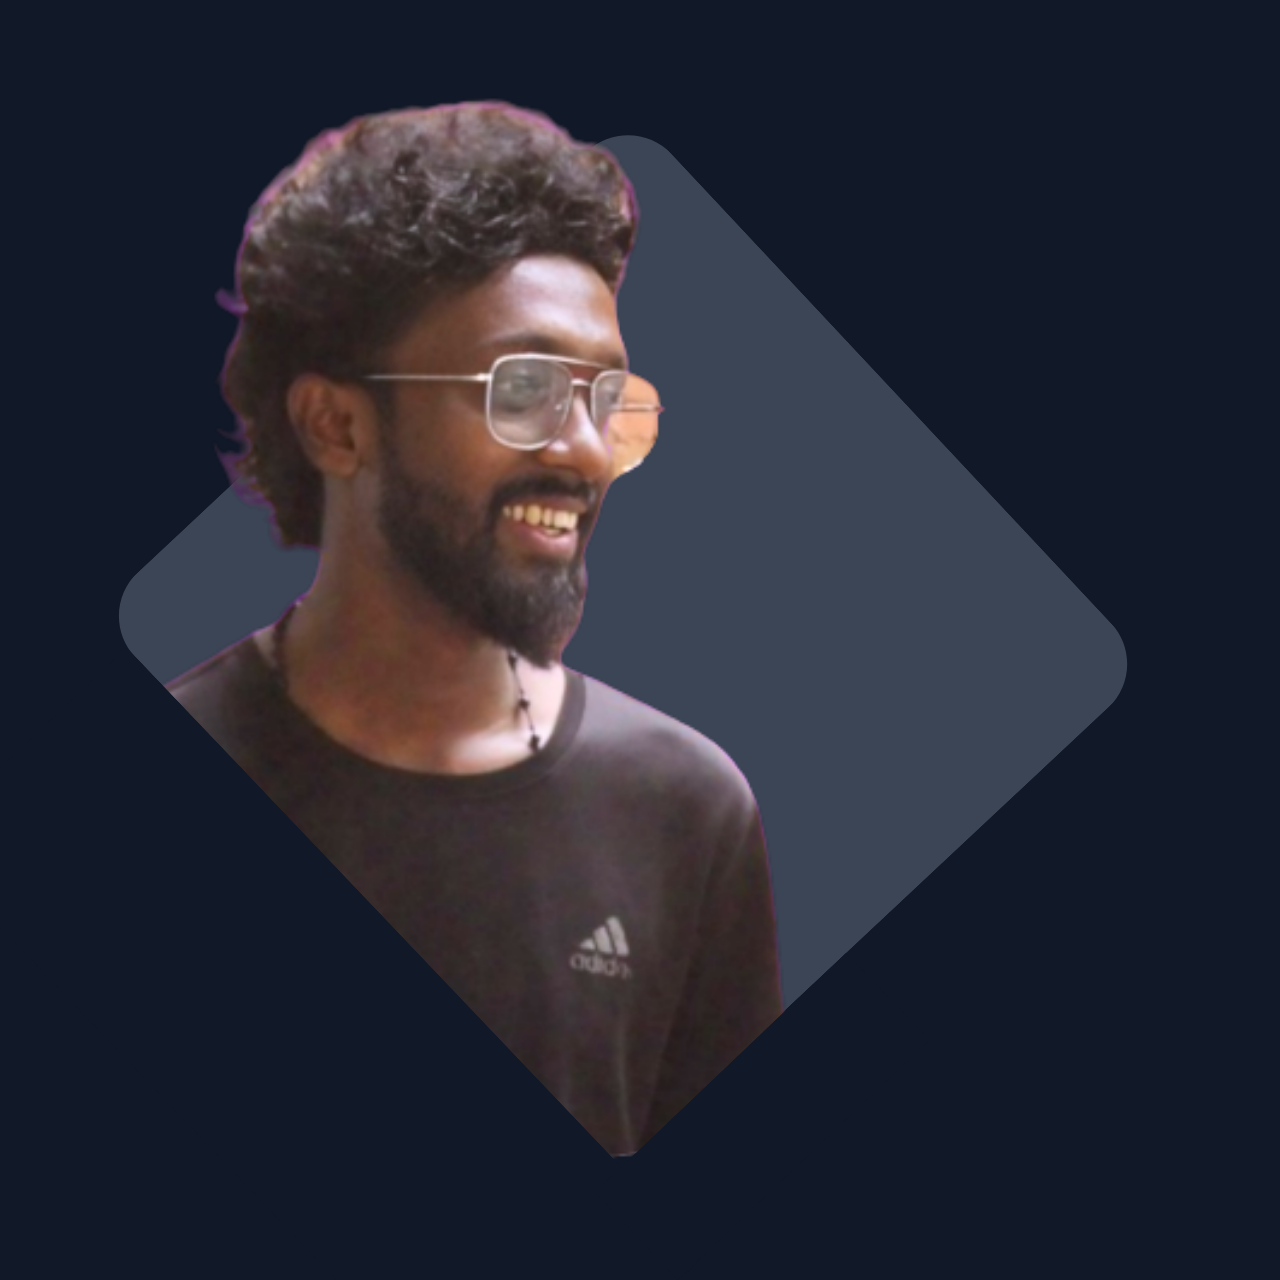
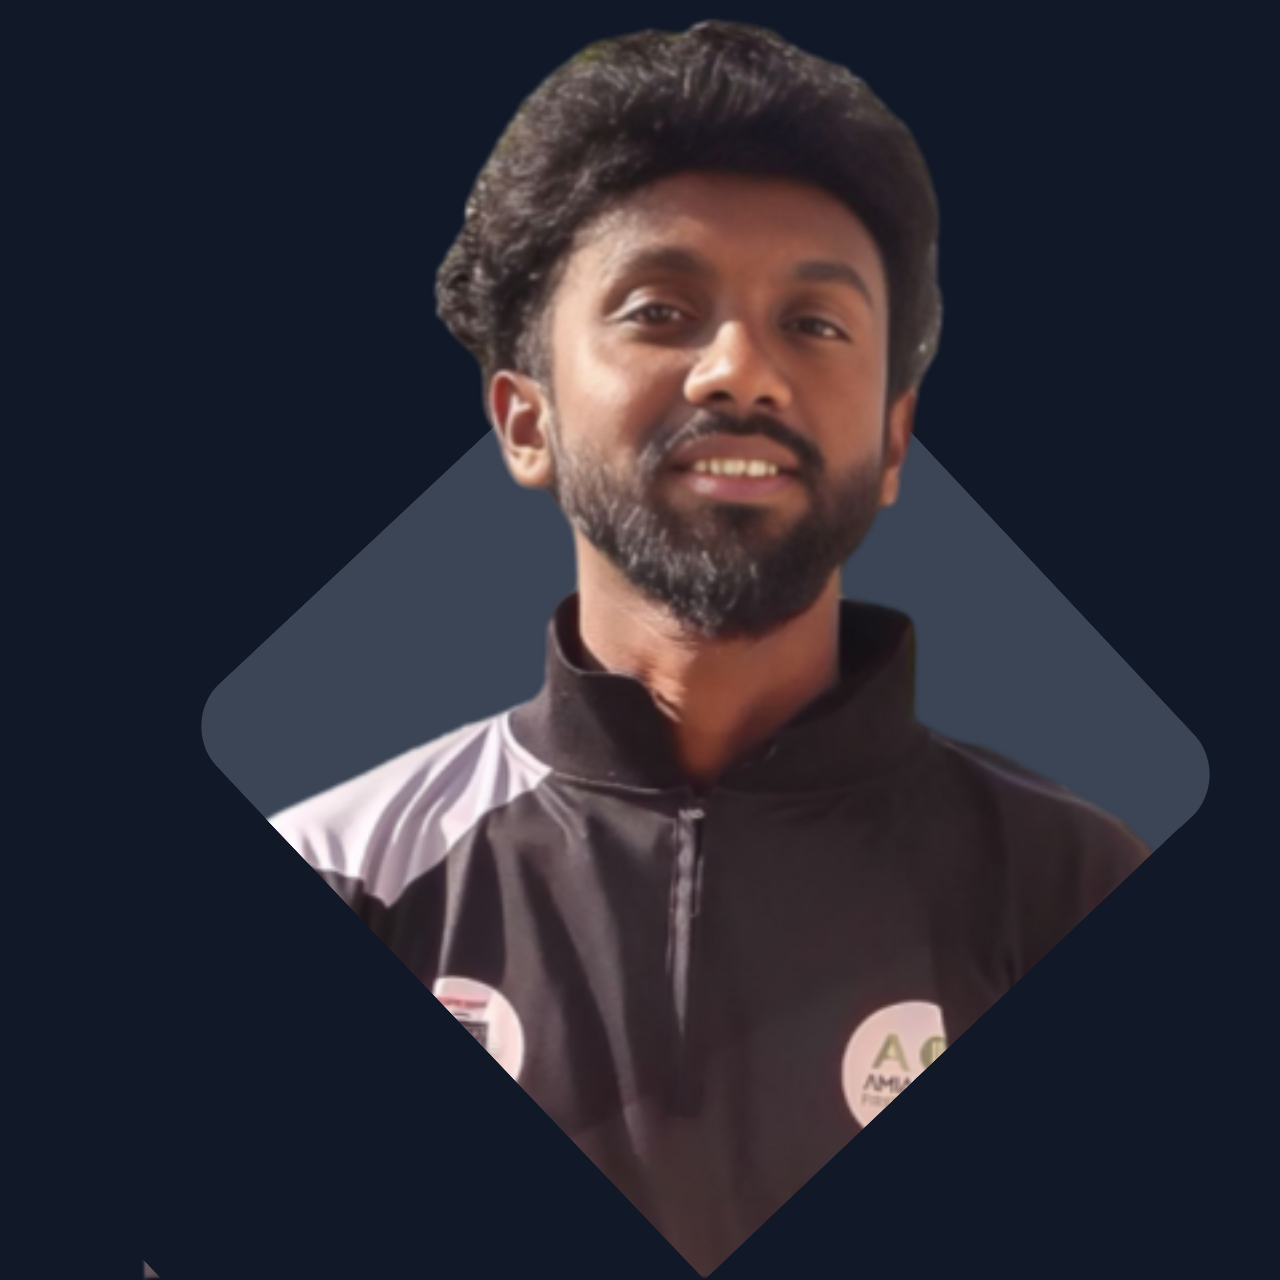
added new photos

diff --git a/src/components/Project.jsx b/src/components/Project.jsx
@@ -7,7 +7,7 @@ import netflix from "../assets/images/netflix.gif";
 import vishnu from "../assets/images/vishnu.png";
 import wishns from "../assets/images/wishns.png";
 import tictactoe from "../assets/images/tictactoe.png";
-import project_person from "../assets/images/project_person1.png";
+import project_person from "../assets/images/project_person.png";
 import "swiper/css";
 import "swiper/css/pagination";
 import { Pagination, Autoplay } from "swiper";
